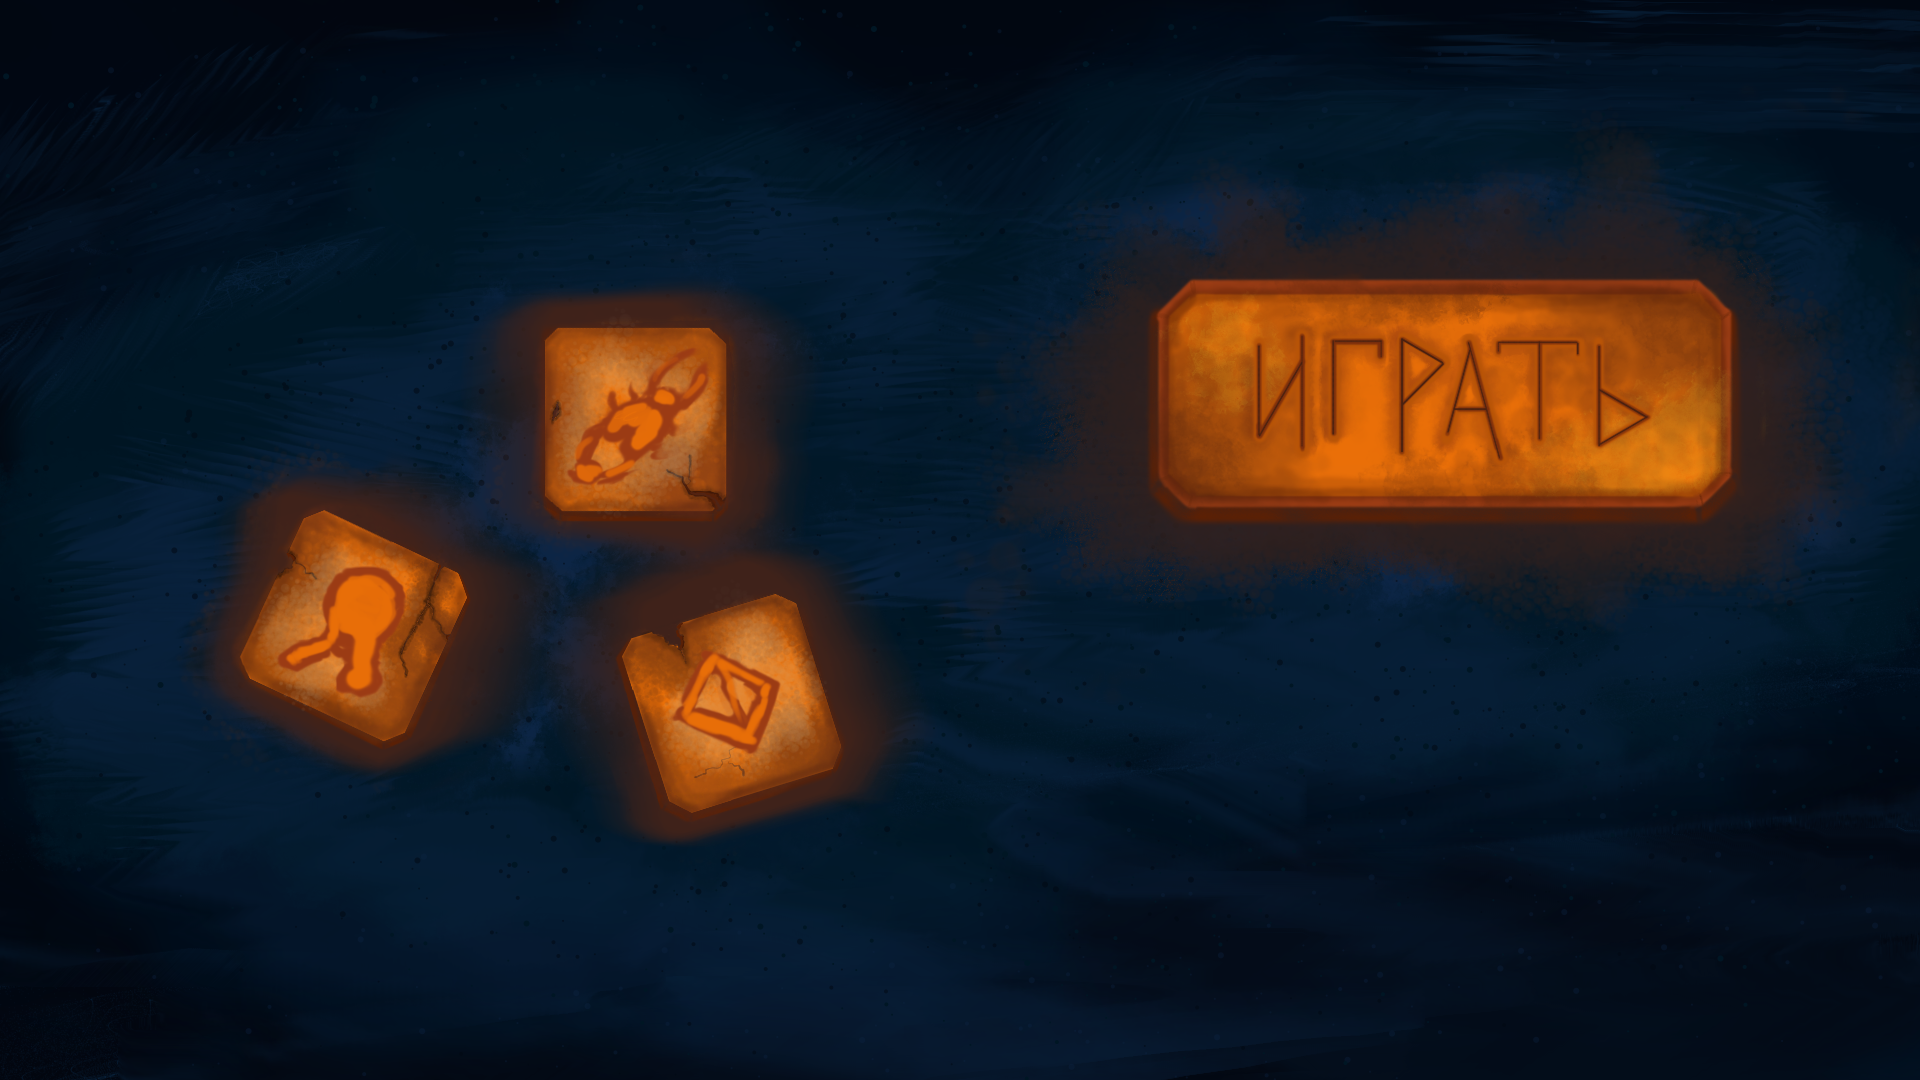
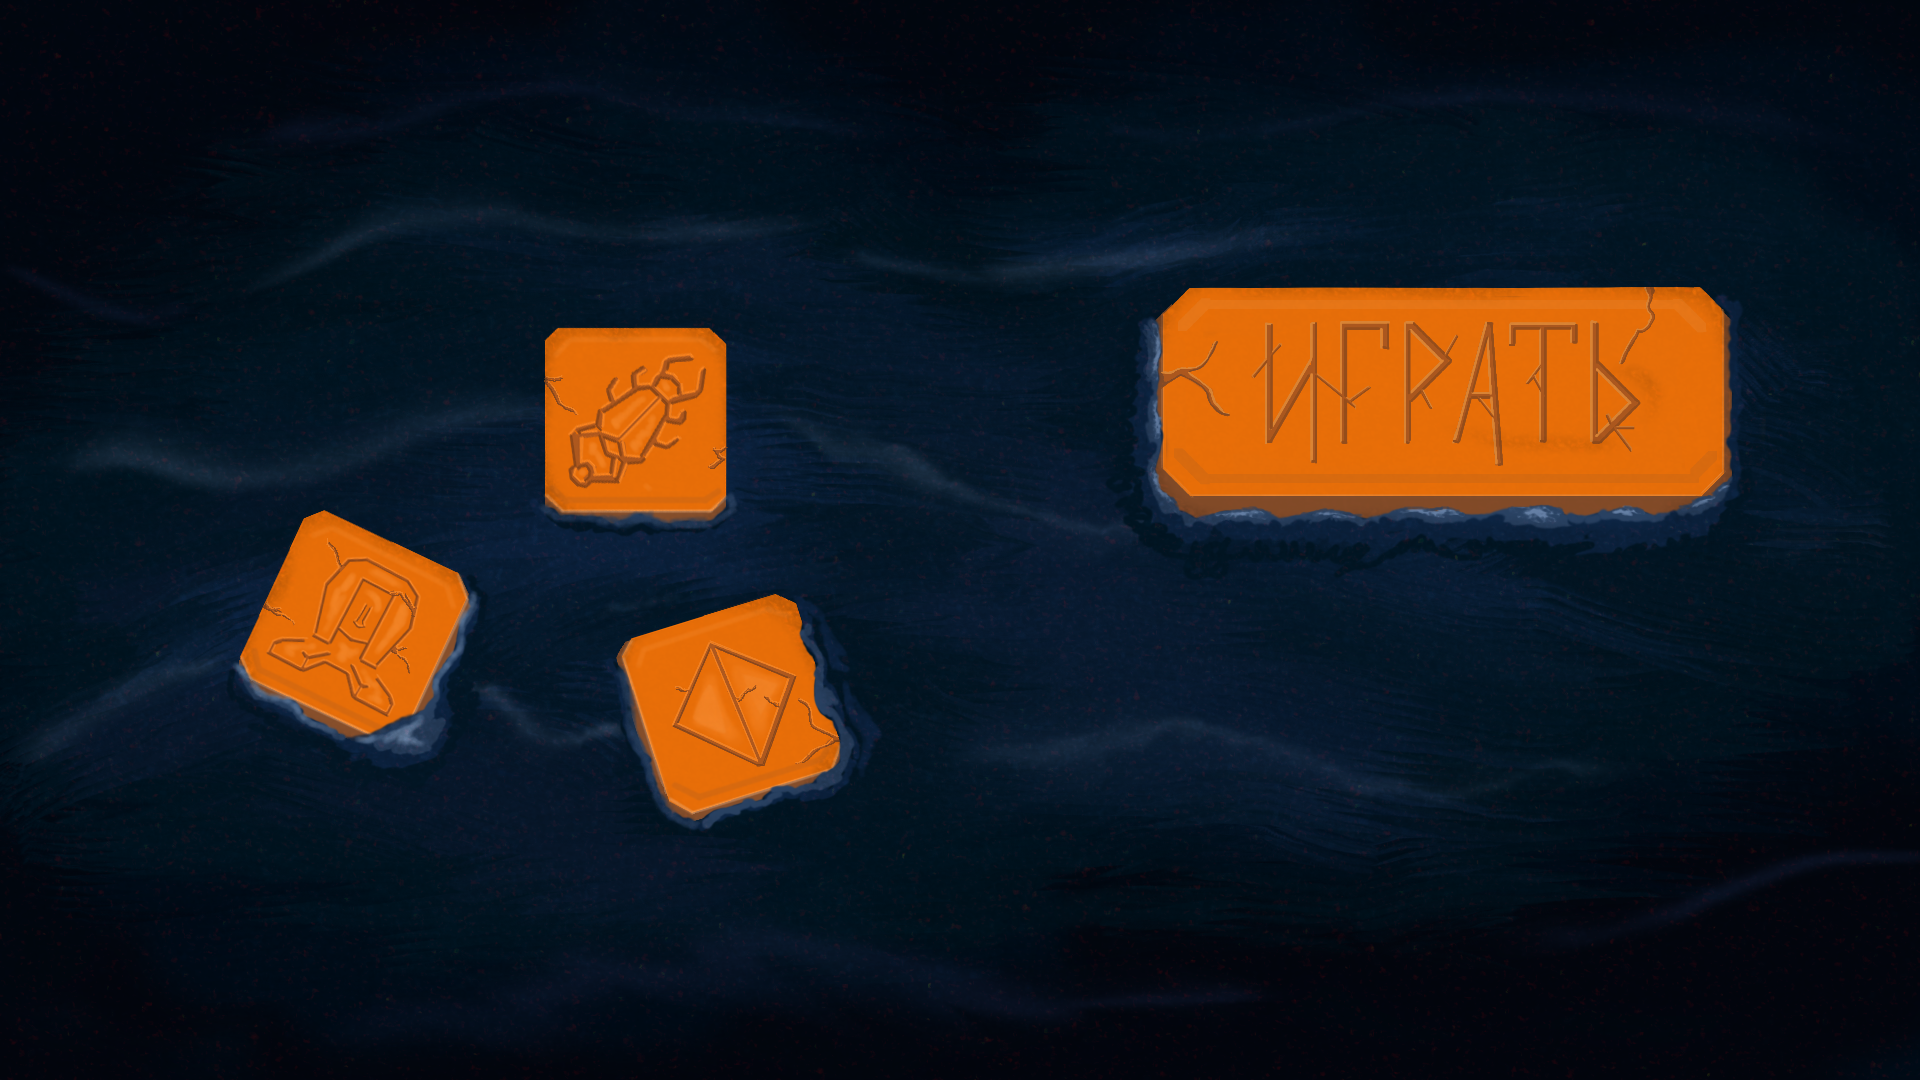
add game bg

diff --git a/SharedClassesPortable/XNA/GameClass.cs b/SharedClassesPortable/XNA/GameClass.cs
@@ -16,7 +16,7 @@ namespace EgyptLazerGame.Classes.XNA
         Field field;
         Texture2D[] tFigs;
         Texture2D[] tRay;
-        Texture2D tSelected;
+        Texture2D tSelected, tBg;
         public MouseState oldMS;
         KeyboardState oldKS;
         bool isGameOver = false;
@@ -62,6 +62,7 @@ namespace EgyptLazerGame.Classes.XNA
 
             tSelected = Game.Content.Load<Texture2D>("cell");
 
+            tBg = Game.Content.Load<Texture2D>("game_main");
             base.LoadContent();
         }
         public override void Update(GameTime gameTime)
@@ -129,6 +130,8 @@ namespace EgyptLazerGame.Classes.XNA
         public override void Draw(GameTime gameTime)
         {
             sb.Begin();
+
+            sb.Draw(tBg, Vector2.Zero, Color.White);
 
             ui.Draw(sb, field.CurrentPlayer, field.selectedText);
 
